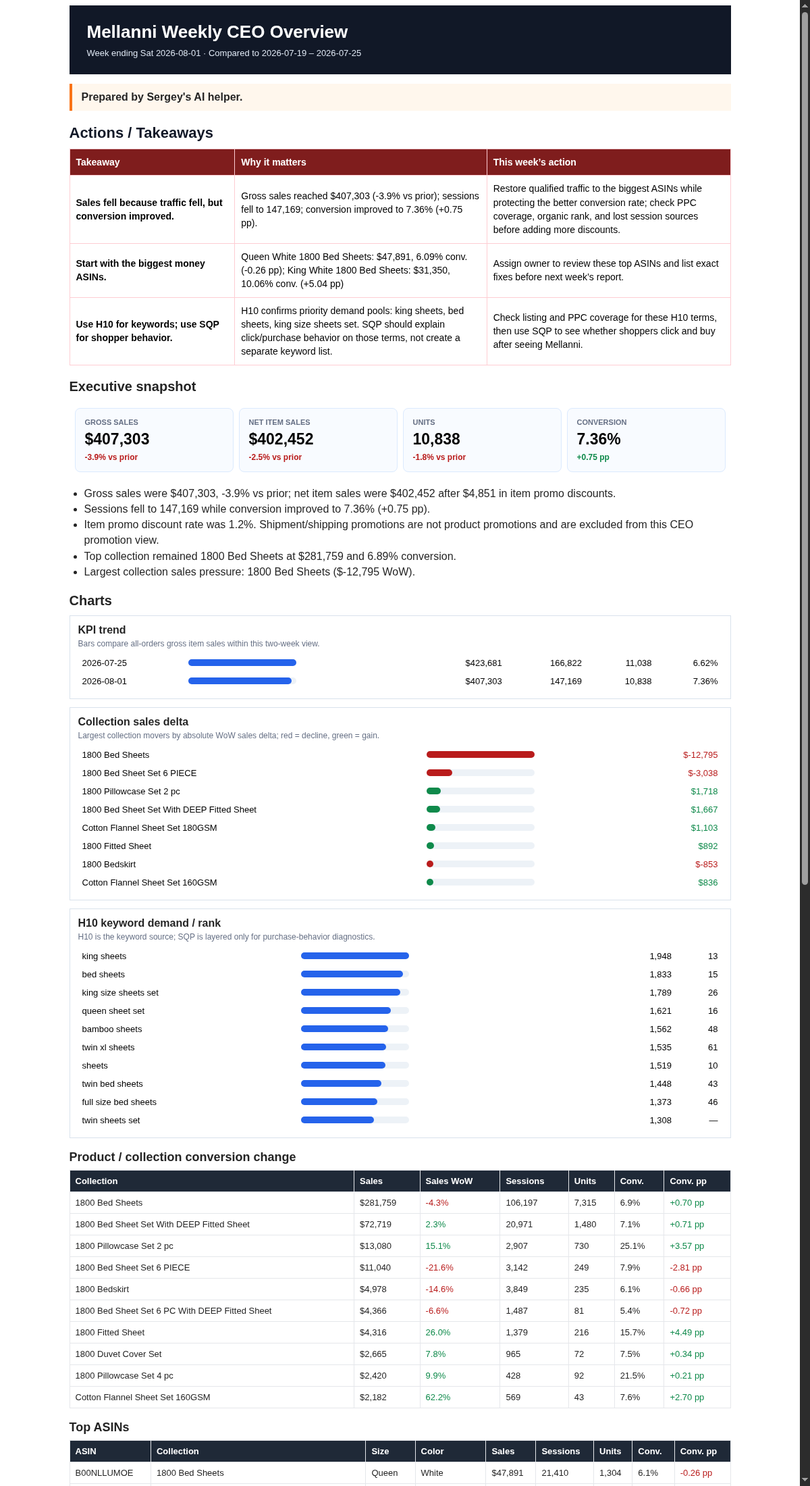
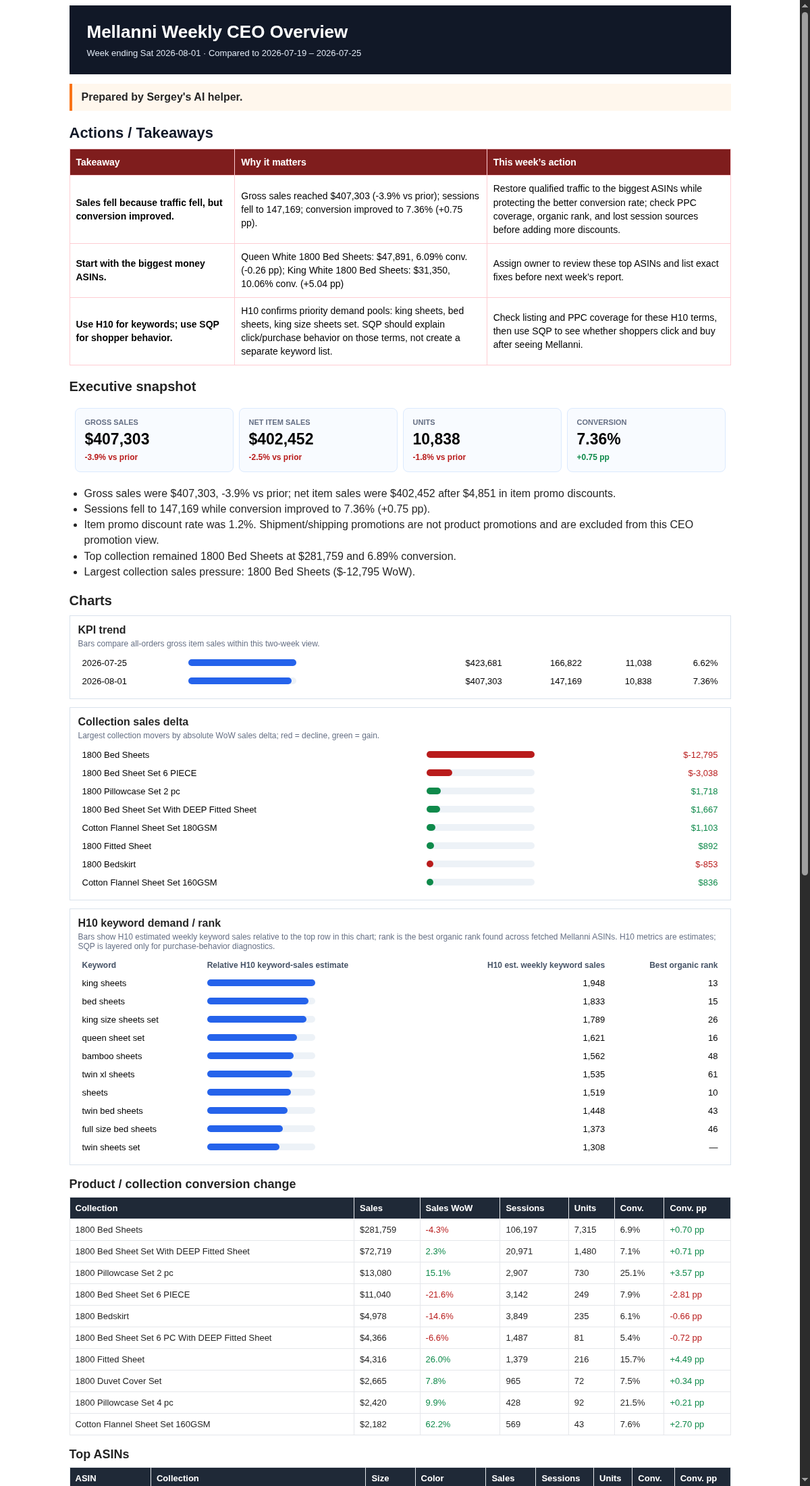
label h10 chart metrics

diff --git a/reports/weekly_conversion/2026-08-01/email_body_2026-08-01.html b/reports/weekly_conversion/2026-08-01/email_body_2026-08-01.html
@@ -20,7 +20,7 @@
   <h2 style="font-size:20px;margin:20px 0 10px">Charts</h2>
   <div style="border:1px solid #d9e2ec;padding:12px;margin:8px 0 12px"><b>KPI trend</b><div style="font-size:12px;color:#667085;margin:4px 0 8px">Bars compare all-orders gross item sales within this two-week view.</div><table style="width:100%;border-collapse:collapse;font-size:13px"><tr><td style='padding:6px'>2026-07-25</td><td style='padding:6px'><div style='background:#edf2f7;width:160px;height:10px;border-radius:6px'><div style='background:#2563eb;width:100.0%;height:10px;border-radius:6px'></div></div></td><td style='padding:6px;text-align:right'>$423,681</td><td style='padding:6px;text-align:right'>166,822</td><td style='padding:6px;text-align:right'>11,038</td><td style='padding:6px;text-align:right'>6.62%</td></tr><tr><td style='padding:6px'>2026-08-01</td><td style='padding:6px'><div style='background:#edf2f7;width:160px;height:10px;border-radius:6px'><div style='background:#2563eb;width:96.1%;height:10px;border-radius:6px'></div></div></td><td style='padding:6px;text-align:right'>$407,303</td><td style='padding:6px;text-align:right'>147,169</td><td style='padding:6px;text-align:right'>10,838</td><td style='padding:6px;text-align:right'>7.36%</td></tr></table></div>
   <div style="border:1px solid #d9e2ec;padding:12px;margin:8px 0 12px"><b>Collection sales delta</b><div style="font-size:12px;color:#667085;margin:4px 0 8px">Largest collection movers by absolute WoW sales delta; red = decline, green = gain.</div><table style="width:100%;border-collapse:collapse;font-size:13px"><tr><td style='padding:6px'>1800 Bed Sheets</td><td style='padding:6px'><div style='background:#edf2f7;width:160px;height:10px;border-radius:6px'><div style='background:#b91c1c;width:100.0%;height:10px;border-radius:6px'></div></div></td><td style='padding:6px;text-align:right;color:#b91c1c'>$-12,795</td></tr><tr><td style='padding:6px'>1800 Bed Sheet Set 6 PIECE</td><td style='padding:6px'><div style='background:#edf2f7;width:160px;height:10px;border-radius:6px'><div style='background:#b91c1c;width:23.7%;height:10px;border-radius:6px'></div></div></td><td style='padding:6px;text-align:right;color:#b91c1c'>$-3,038</td></tr><tr><td style='padding:6px'>1800 Pillowcase Set 2 pc</td><td style='padding:6px'><div style='background:#edf2f7;width:160px;height:10px;border-radius:6px'><div style='background:#0f8a4b;width:13.4%;height:10px;border-radius:6px'></div></div></td><td style='padding:6px;text-align:right;color:#0f8a4b'>$1,718</td></tr><tr><td style='padding:6px'>1800 Bed Sheet Set With DEEP Fitted Sheet</td><td style='padding:6px'><div style='background:#edf2f7;width:160px;height:10px;border-radius:6px'><div style='background:#0f8a4b;width:13.0%;height:10px;border-radius:6px'></div></div></td><td style='padding:6px;text-align:right;color:#0f8a4b'>$1,667</td></tr><tr><td style='padding:6px'>Cotton Flannel Sheet Set 180GSM</td><td style='padding:6px'><div style='background:#edf2f7;width:160px;height:10px;border-radius:6px'><div style='background:#0f8a4b;width:8.6%;height:10px;border-radius:6px'></div></div></td><td style='padding:6px;text-align:right;color:#0f8a4b'>$1,103</td></tr><tr><td style='padding:6px'>1800 Fitted Sheet</td><td style='padding:6px'><div style='background:#edf2f7;width:160px;height:10px;border-radius:6px'><div style='background:#0f8a4b;width:7.0%;height:10px;border-radius:6px'></div></div></td><td style='padding:6px;text-align:right;color:#0f8a4b'>$892</td></tr><tr><td style='padding:6px'>1800 Bedskirt</td><td style='padding:6px'><div style='background:#edf2f7;width:160px;height:10px;border-radius:6px'><div style='background:#b91c1c;width:6.7%;height:10px;border-radius:6px'></div></div></td><td style='padding:6px;text-align:right;color:#b91c1c'>$-853</td></tr><tr><td style='padding:6px'>Cotton Flannel Sheet Set 160GSM</td><td style='padding:6px'><div style='background:#edf2f7;width:160px;height:10px;border-radius:6px'><div style='background:#0f8a4b;width:6.5%;height:10px;border-radius:6px'></div></div></td><td style='padding:6px;text-align:right;color:#0f8a4b'>$836</td></tr></table></div>
-  <div style="border:1px solid #d9e2ec;padding:12px;margin:8px 0 12px"><b>H10 keyword demand / rank</b><div style="font-size:12px;color:#667085;margin:4px 0 8px">H10 is the keyword source; SQP is layered only for purchase-behavior diagnostics.</div><table style="width:100%;border-collapse:collapse;font-size:13px"><tr><td style='padding:6px'>king sheets</td><td style='padding:6px'><div style='background:#edf2f7;width:160px;height:10px;border-radius:6px'><div style='background:#2563eb;width:100.0%;height:10px;border-radius:6px'></div></div></td><td style='padding:6px;text-align:right'>1,948</td><td style='padding:6px;text-align:right'>13</td></tr><tr><td style='padding:6px'>bed sheets</td><td style='padding:6px'><div style='background:#edf2f7;width:160px;height:10px;border-radius:6px'><div style='background:#2563eb;width:94.1%;height:10px;border-radius:6px'></div></div></td><td style='padding:6px;text-align:right'>1,833</td><td style='padding:6px;text-align:right'>15</td></tr><tr><td style='padding:6px'>king size sheets set</td><td style='padding:6px'><div style='background:#edf2f7;width:160px;height:10px;border-radius:6px'><div style='background:#2563eb;width:91.8%;height:10px;border-radius:6px'></div></div></td><td style='padding:6px;text-align:right'>1,789</td><td style='padding:6px;text-align:right'>26</td></tr><tr><td style='padding:6px'>queen sheet set</td><td style='padding:6px'><div style='background:#edf2f7;width:160px;height:10px;border-radius:6px'><div style='background:#2563eb;width:83.2%;height:10px;border-radius:6px'></div></div></td><td style='padding:6px;text-align:right'>1,621</td><td style='padding:6px;text-align:right'>16</td></tr><tr><td style='padding:6px'>bamboo sheets</td><td style='padding:6px'><div style='background:#edf2f7;width:160px;height:10px;border-radius:6px'><div style='background:#2563eb;width:80.2%;height:10px;border-radius:6px'></div></div></td><td style='padding:6px;text-align:right'>1,562</td><td style='padding:6px;text-align:right'>48</td></tr><tr><td style='padding:6px'>twin xl sheets</td><td style='padding:6px'><div style='background:#edf2f7;width:160px;height:10px;border-radius:6px'><div style='background:#2563eb;width:78.8%;height:10px;border-radius:6px'></div></div></td><td style='padding:6px;text-align:right'>1,535</td><td style='padding:6px;text-align:right'>61</td></tr><tr><td style='padding:6px'>sheets</td><td style='padding:6px'><div style='background:#edf2f7;width:160px;height:10px;border-radius:6px'><div style='background:#2563eb;width:78.0%;height:10px;border-radius:6px'></div></div></td><td style='padding:6px;text-align:right'>1,519</td><td style='padding:6px;text-align:right'>10</td></tr><tr><td style='padding:6px'>twin bed sheets</td><td style='padding:6px'><div style='background:#edf2f7;width:160px;height:10px;border-radius:6px'><div style='background:#2563eb;width:74.3%;height:10px;border-radius:6px'></div></div></td><td style='padding:6px;text-align:right'>1,448</td><td style='padding:6px;text-align:right'>43</td></tr><tr><td style='padding:6px'>full size bed sheets</td><td style='padding:6px'><div style='background:#edf2f7;width:160px;height:10px;border-radius:6px'><div style='background:#2563eb;width:70.5%;height:10px;border-radius:6px'></div></div></td><td style='padding:6px;text-align:right'>1,373</td><td style='padding:6px;text-align:right'>46</td></tr><tr><td style='padding:6px'>twin sheets set</td><td style='padding:6px'><div style='background:#edf2f7;width:160px;height:10px;border-radius:6px'><div style='background:#2563eb;width:67.1%;height:10px;border-radius:6px'></div></div></td><td style='padding:6px;text-align:right'>1,308</td><td style='padding:6px;text-align:right'>—</td></tr></table></div>
+  <div style="border:1px solid #d9e2ec;padding:12px;margin:8px 0 12px"><b>H10 keyword demand / rank</b><div style="font-size:12px;color:#667085;margin:4px 0 8px">Bars show H10 estimated weekly keyword sales relative to the top row in this chart; rank is the best organic rank found across fetched Mellanni ASINs. H10 metrics are estimates; SQP is layered only for purchase-behavior diagnostics.</div><table style="width:100%;border-collapse:collapse;font-size:13px"><tr><th style='padding:6px;text-align:left;color:#475467;font-size:12px'>Keyword</th><th style='padding:6px;text-align:left;color:#475467;font-size:12px'>Relative H10 keyword-sales estimate</th><th style='padding:6px;text-align:right;color:#475467;font-size:12px'>H10 est. weekly keyword sales</th><th style='padding:6px;text-align:right;color:#475467;font-size:12px'>Best organic rank</th></tr><tr><td style='padding:6px'>king sheets</td><td style='padding:6px'><div style='background:#edf2f7;width:160px;height:10px;border-radius:6px'><div style='background:#2563eb;width:100.0%;height:10px;border-radius:6px'></div></div></td><td style='padding:6px;text-align:right'>1,948</td><td style='padding:6px;text-align:right'>13</td></tr><tr><td style='padding:6px'>bed sheets</td><td style='padding:6px'><div style='background:#edf2f7;width:160px;height:10px;border-radius:6px'><div style='background:#2563eb;width:94.1%;height:10px;border-radius:6px'></div></div></td><td style='padding:6px;text-align:right'>1,833</td><td style='padding:6px;text-align:right'>15</td></tr><tr><td style='padding:6px'>king size sheets set</td><td style='padding:6px'><div style='background:#edf2f7;width:160px;height:10px;border-radius:6px'><div style='background:#2563eb;width:91.8%;height:10px;border-radius:6px'></div></div></td><td style='padding:6px;text-align:right'>1,789</td><td style='padding:6px;text-align:right'>26</td></tr><tr><td style='padding:6px'>queen sheet set</td><td style='padding:6px'><div style='background:#edf2f7;width:160px;height:10px;border-radius:6px'><div style='background:#2563eb;width:83.2%;height:10px;border-radius:6px'></div></div></td><td style='padding:6px;text-align:right'>1,621</td><td style='padding:6px;text-align:right'>16</td></tr><tr><td style='padding:6px'>bamboo sheets</td><td style='padding:6px'><div style='background:#edf2f7;width:160px;height:10px;border-radius:6px'><div style='background:#2563eb;width:80.2%;height:10px;border-radius:6px'></div></div></td><td style='padding:6px;text-align:right'>1,562</td><td style='padding:6px;text-align:right'>48</td></tr><tr><td style='padding:6px'>twin xl sheets</td><td style='padding:6px'><div style='background:#edf2f7;width:160px;height:10px;border-radius:6px'><div style='background:#2563eb;width:78.8%;height:10px;border-radius:6px'></div></div></td><td style='padding:6px;text-align:right'>1,535</td><td style='padding:6px;text-align:right'>61</td></tr><tr><td style='padding:6px'>sheets</td><td style='padding:6px'><div style='background:#edf2f7;width:160px;height:10px;border-radius:6px'><div style='background:#2563eb;width:78.0%;height:10px;border-radius:6px'></div></div></td><td style='padding:6px;text-align:right'>1,519</td><td style='padding:6px;text-align:right'>10</td></tr><tr><td style='padding:6px'>twin bed sheets</td><td style='padding:6px'><div style='background:#edf2f7;width:160px;height:10px;border-radius:6px'><div style='background:#2563eb;width:74.3%;height:10px;border-radius:6px'></div></div></td><td style='padding:6px;text-align:right'>1,448</td><td style='padding:6px;text-align:right'>43</td></tr><tr><td style='padding:6px'>full size bed sheets</td><td style='padding:6px'><div style='background:#edf2f7;width:160px;height:10px;border-radius:6px'><div style='background:#2563eb;width:70.5%;height:10px;border-radius:6px'></div></div></td><td style='padding:6px;text-align:right'>1,373</td><td style='padding:6px;text-align:right'>46</td></tr><tr><td style='padding:6px'>twin sheets set</td><td style='padding:6px'><div style='background:#edf2f7;width:160px;height:10px;border-radius:6px'><div style='background:#2563eb;width:67.1%;height:10px;border-radius:6px'></div></div></td><td style='padding:6px;text-align:right'>1,308</td><td style='padding:6px;text-align:right'>—</td></tr></table></div>
 
   <h2 style="font-size:18px;margin:18px 0 8px">Product / collection conversion change</h2><table style='border-collapse:collapse;width:100%;font-size:13px;margin:8px 0 16px'><tr><th style='background:#1f2937;color:#fff;text-align:left;padding:8px;border:1px solid #e5e7eb'>Collection</th><th style='background:#1f2937;color:#fff;text-align:left;padding:8px;border:1px solid #e5e7eb'>Sales</th><th style='background:#1f2937;color:#fff;text-align:left;padding:8px;border:1px solid #e5e7eb'>Sales WoW</th><th style='background:#1f2937;color:#fff;text-align:left;padding:8px;border:1px solid #e5e7eb'>Sessions</th><th style='background:#1f2937;color:#fff;text-align:left;padding:8px;border:1px solid #e5e7eb'>Units</th><th style='background:#1f2937;color:#fff;text-align:left;padding:8px;border:1px solid #e5e7eb'>Conv.</th><th style='background:#1f2937;color:#fff;text-align:left;padding:8px;border:1px solid #e5e7eb'>Conv. pp</th></tr><tr><td style='padding:8px;border:1px solid #e5e7eb;color:#242424'>1800 Bed Sheets</td><td style='padding:8px;border:1px solid #e5e7eb;color:#242424'>$281,759</td><td style='padding:8px;border:1px solid #e5e7eb;color:#b91c1c'>-4.3%</td><td style='padding:8px;border:1px solid #e5e7eb;color:#242424'>106,197</td><td style='padding:8px;border:1px solid #e5e7eb;color:#242424'>7,315</td><td style='padding:8px;border:1px solid #e5e7eb;color:#242424'>6.9%</td><td style='padding:8px;border:1px solid #e5e7eb;color:#0f8a4b'>+0.70 pp</td></tr><tr><td style='padding:8px;border:1px solid #e5e7eb;color:#242424'>1800 Bed Sheet Set With DEEP Fitted Sheet</td><td style='padding:8px;border:1px solid #e5e7eb;color:#242424'>$72,719</td><td style='padding:8px;border:1px solid #e5e7eb;color:#0f8a4b'>2.3%</td><td style='padding:8px;border:1px solid #e5e7eb;color:#242424'>20,971</td><td style='padding:8px;border:1px solid #e5e7eb;color:#242424'>1,480</td><td style='padding:8px;border:1px solid #e5e7eb;color:#242424'>7.1%</td><td style='padding:8px;border:1px solid #e5e7eb;color:#0f8a4b'>+0.71 pp</td></tr><tr><td style='padding:8px;border:1px solid #e5e7eb;color:#242424'>1800 Pillowcase Set 2 pc</td><td style='padding:8px;border:1px solid #e5e7eb;color:#242424'>$13,080</td><td style='padding:8px;border:1px solid #e5e7eb;color:#0f8a4b'>15.1%</td><td style='padding:8px;border:1px solid #e5e7eb;color:#242424'>2,907</td><td style='padding:8px;border:1px solid #e5e7eb;color:#242424'>730</td><td style='padding:8px;border:1px solid #e5e7eb;color:#242424'>25.1%</td><td style='padding:8px;border:1px solid #e5e7eb;color:#0f8a4b'>+3.57 pp</td></tr><tr><td style='padding:8px;border:1px solid #e5e7eb;color:#242424'>1800 Bed Sheet Set 6 PIECE</td><td style='padding:8px;border:1px solid #e5e7eb;color:#242424'>$11,040</td><td style='padding:8px;border:1px solid #e5e7eb;color:#b91c1c'>-21.6%</td><td style='padding:8px;border:1px solid #e5e7eb;color:#242424'>3,142</td><td style='padding:8px;border:1px solid #e5e7eb;color:#242424'>249</td><td style='padding:8px;border:1px solid #e5e7eb;color:#242424'>7.9%</td><td style='padding:8px;border:1px solid #e5e7eb;color:#b91c1c'>-2.81 pp</td></tr><tr><td style='padding:8px;border:1px solid #e5e7eb;color:#242424'>1800 Bedskirt</td><td style='padding:8px;border:1px solid #e5e7eb;color:#242424'>$4,978</td><td style='padding:8px;border:1px solid #e5e7eb;color:#b91c1c'>-14.6%</td><td style='padding:8px;border:1px solid #e5e7eb;color:#242424'>3,849</td><td style='padding:8px;border:1px solid #e5e7eb;color:#242424'>235</td><td style='padding:8px;border:1px solid #e5e7eb;color:#242424'>6.1%</td><td style='padding:8px;border:1px solid #e5e7eb;color:#b91c1c'>-0.66 pp</td></tr><tr><td style='padding:8px;border:1px solid #e5e7eb;color:#242424'>1800 Bed Sheet Set 6 PC With DEEP Fitted Sheet</td><td style='padding:8px;border:1px solid #e5e7eb;color:#242424'>$4,366</td><td style='padding:8px;border:1px solid #e5e7eb;color:#b91c1c'>-6.6%</td><td style='padding:8px;border:1px solid #e5e7eb;color:#242424'>1,487</td><td style='padding:8px;border:1px solid #e5e7eb;color:#242424'>81</td><td style='padding:8px;border:1px solid #e5e7eb;color:#242424'>5.4%</td><td style='padding:8px;border:1px solid #e5e7eb;color:#b91c1c'>-0.72 pp</td></tr><tr><td style='padding:8px;border:1px solid #e5e7eb;color:#242424'>1800 Fitted Sheet</td><td style='padding:8px;border:1px solid #e5e7eb;color:#242424'>$4,316</td><td style='padding:8px;border:1px solid #e5e7eb;color:#0f8a4b'>26.0%</td><td style='padding:8px;border:1px solid #e5e7eb;color:#242424'>1,379</td><td style='padding:8px;border:1px solid #e5e7eb;color:#242424'>216</td><td style='padding:8px;border:1px solid #e5e7eb;color:#242424'>15.7%</td><td style='padding:8px;border:1px solid #e5e7eb;color:#0f8a4b'>+4.49 pp</td></tr><tr><td style='padding:8px;border:1px solid #e5e7eb;color:#242424'>1800 Duvet Cover Set</td><td style='padding:8px;border:1px solid #e5e7eb;color:#242424'>$2,665</td><td style='padding:8px;border:1px solid #e5e7eb;color:#0f8a4b'>7.8%</td><td style='padding:8px;border:1px solid #e5e7eb;color:#242424'>965</td><td style='padding:8px;border:1px solid #e5e7eb;color:#242424'>72</td><td style='padding:8px;border:1px solid #e5e7eb;color:#242424'>7.5%</td><td style='padding:8px;border:1px solid #e5e7eb;color:#0f8a4b'>+0.34 pp</td></tr><tr><td style='padding:8px;border:1px solid #e5e7eb;color:#242424'>1800 Pillowcase Set 4 pc</td><td style='padding:8px;border:1px solid #e5e7eb;color:#242424'>$2,420</td><td style='padding:8px;border:1px solid #e5e7eb;color:#0f8a4b'>9.9%</td><td style='padding:8px;border:1px solid #e5e7eb;color:#242424'>428</td><td style='padding:8px;border:1px solid #e5e7eb;color:#242424'>92</td><td style='padding:8px;border:1px solid #e5e7eb;color:#242424'>21.5%</td><td style='padding:8px;border:1px solid #e5e7eb;color:#0f8a4b'>+0.21 pp</td></tr><tr><td style='padding:8px;border:1px solid #e5e7eb;color:#242424'>Cotton Flannel Sheet Set 160GSM</td><td style='padding:8px;border:1px solid #e5e7eb;color:#242424'>$2,182</td><td style='padding:8px;border:1px solid #e5e7eb;color:#0f8a4b'>62.2%</td><td style='padding:8px;border:1px solid #e5e7eb;color:#242424'>569</td><td style='padding:8px;border:1px solid #e5e7eb;color:#242424'>43</td><td style='padding:8px;border:1px solid #e5e7eb;color:#242424'>7.6%</td><td style='padding:8px;border:1px solid #e5e7eb;color:#0f8a4b'>+2.70 pp</td></tr></table>
   <h2 style="font-size:18px;margin:18px 0 8px">Top ASINs</h2><table style='border-collapse:collapse;width:100%;font-size:13px;margin:8px 0 16px'><tr><th style='background:#1f2937;color:#fff;text-align:left;padding:8px;border:1px solid #e5e7eb'>ASIN</th><th style='background:#1f2937;color:#fff;text-align:left;padding:8px;border:1px solid #e5e7eb'>Collection</th><th style='background:#1f2937;color:#fff;text-align:left;padding:8px;border:1px solid #e5e7eb'>Size</th><th style='background:#1f2937;color:#fff;text-align:left;padding:8px;border:1px solid #e5e7eb'>Color</th><th style='background:#1f2937;color:#fff;text-align:left;padding:8px;border:1px solid #e5e7eb'>Sales</th><th style='background:#1f2937;color:#fff;text-align:left;padding:8px;border:1px solid #e5e7eb'>Sessions</th><th style='background:#1f2937;color:#fff;text-align:left;padding:8px;border:1px solid #e5e7eb'>Units</th><th style='background:#1f2937;color:#fff;text-align:left;padding:8px;border:1px solid #e5e7eb'>Conv.</th><th style='background:#1f2937;color:#fff;text-align:left;padding:8px;border:1px solid #e5e7eb'>Conv. pp</th></tr><tr><td style='padding:8px;border:1px solid #e5e7eb;color:#242424'>B00NLLUMOE</td><td style='padding:8px;border:1px solid #e5e7eb;color:#242424'>1800 Bed Sheets</td><td style='padding:8px;border:1px solid #e5e7eb;color:#242424'>Queen</td><td style='padding:8px;border:1px solid #e5e7eb;color:#242424'>White</td><td style='padding:8px;border:1px solid #e5e7eb;color:#242424'>$47,891</td><td style='padding:8px;border:1px solid #e5e7eb;color:#242424'>21,410</td><td style='padding:8px;border:1px solid #e5e7eb;color:#242424'>1,304</td><td style='padding:8px;border:1px solid #e5e7eb;color:#242424'>6.1%</td><td style='padding:8px;border:1px solid #e5e7eb;color:#b91c1c'>-0.26 pp</td></tr><tr><td style='padding:8px;border:1px solid #e5e7eb;color:#242424'>B00NQDGAP2</td><td style='padding:8px;border:1px solid #e5e7eb;color:#242424'>1800 Bed Sheets</td><td style='padding:8px;border:1px solid #e5e7eb;color:#242424'>King</td><td style='padding:8px;border:1px solid #e5e7eb;color:#242424'>White</td><td style='padding:8px;border:1px solid #e5e7eb;color:#242424'>$31,350</td><td style='padding:8px;border:1px solid #e5e7eb;color:#242424'>7,685</td><td style='padding:8px;border:1px solid #e5e7eb;color:#242424'>773</td><td style='padding:8px;border:1px solid #e5e7eb;color:#242424'>10.1%</td><td style='padding:8px;border:1px solid #e5e7eb;color:#0f8a4b'>+5.04 pp</td></tr><tr><td style='padding:8px;border:1px solid #e5e7eb;color:#242424'>B00O35DAL4</td><td style='padding:8px;border:1px solid #e5e7eb;color:#242424'>1800 Bed Sheets</td><td style='padding:8px;border:1px solid #e5e7eb;color:#242424'>Full</td><td style='padding:8px;border:1px solid #e5e7eb;color:#242424'>White</td><td style='padding:8px;border:1px solid #e5e7eb;color:#242424'>$16,473</td><td style='padding:8px;border:1px solid #e5e7eb;color:#242424'>3,023</td><td style='padding:8px;border:1px solid #e5e7eb;color:#242424'>475</td><td style='padding:8px;border:1px solid #e5e7eb;color:#242424'>15.7%</td><td style='padding:8px;border:1px solid #e5e7eb;color:#b91c1c'>-0.13 pp</td></tr><tr><td style='padding:8px;border:1px solid #e5e7eb;color:#242424'>B0822X1VP7</td><td style='padding:8px;border:1px solid #e5e7eb;color:#242424'>1800 Bed Sheet Set With DEEP Fitted Sheet</td><td style='padding:8px;border:1px solid #e5e7eb;color:#242424'>King</td><td style='padding:8px;border:1px solid #e5e7eb;color:#242424'>White</td><td style='padding:8px;border:1px solid #e5e7eb;color:#242424'>$11,456</td><td style='padding:8px;border:1px solid #e5e7eb;color:#242424'>2,195</td><td style='padding:8px;border:1px solid #e5e7eb;color:#242424'>226</td><td style='padding:8px;border:1px solid #e5e7eb;color:#242424'>10.3%</td><td style='padding:8px;border:1px solid #e5e7eb;color:#0f8a4b'>+2.06 pp</td></tr><tr><td style='padding:8px;border:1px solid #e5e7eb;color:#242424'>B016P42ARU</td><td style='padding:8px;border:1px solid #e5e7eb;color:#242424'>1800 Bed Sheets</td><td style='padding:8px;border:1px solid #e5e7eb;color:#242424'>Twin XL</td><td style='padding:8px;border:1px solid #e5e7eb;color:#242424'>White</td><td style='padding:8px;border:1px solid #e5e7eb;color:#242424'>$9,777</td><td style='padding:8px;border:1px solid #e5e7eb;color:#242424'>1,527</td><td style='padding:8px;border:1px solid #e5e7eb;color:#242424'>299</td><td style='padding:8px;border:1px solid #e5e7eb;color:#242424'>19.6%</td><td style='padding:8px;border:1px solid #e5e7eb;color:#0f8a4b'>+2.94 pp</td></tr><tr><td style='padding:8px;border:1px solid #e5e7eb;color:#242424'>B0822X4TLW</td><td style='padding:8px;border:1px solid #e5e7eb;color:#242424'>1800 Bed Sheet Set With DEEP Fitted Sheet</td><td style='padding:8px;border:1px solid #e5e7eb;color:#242424'>Queen</td><td style='padding:8px;border:1px solid #e5e7eb;color:#242424'>White</td><td style='padding:8px;border:1px solid #e5e7eb;color:#242424'>$9,157</td><td style='padding:8px;border:1px solid #e5e7eb;color:#242424'>2,098</td><td style='padding:8px;border:1px solid #e5e7eb;color:#242424'>198</td><td style='padding:8px;border:1px solid #e5e7eb;color:#242424'>9.4%</td><td style='padding:8px;border:1px solid #e5e7eb;color:#0f8a4b'>+3.29 pp</td></tr><tr><td style='padding:8px;border:1px solid #e5e7eb;color:#242424'>B00O35CWQ8</td><td style='padding:8px;border:1px solid #e5e7eb;color:#242424'>1800 Bed Sheets</td><td style='padding:8px;border:1px solid #e5e7eb;color:#242424'>Twin</td><td style='padding:8px;border:1px solid #e5e7eb;color:#242424'>White</td><td style='padding:8px;border:1px solid #e5e7eb;color:#242424'>$7,258</td><td style='padding:8px;border:1px solid #e5e7eb;color:#242424'>738</td><td style='padding:8px;border:1px solid #e5e7eb;color:#242424'>209</td><td style='padding:8px;border:1px solid #e5e7eb;color:#242424'>28.3%</td><td style='padding:8px;border:1px solid #e5e7eb;color:#0f8a4b'>+9.76 pp</td></tr><tr><td style='padding:8px;border:1px solid #e5e7eb;color:#242424'>B00SBZJ8NG</td><td style='padding:8px;border:1px solid #e5e7eb;color:#242424'>1800 Bed Sheets</td><td style='padding:8px;border:1px solid #e5e7eb;color:#242424'>Queen</td><td style='padding:8px;border:1px solid #e5e7eb;color:#242424'>Light Gray</td><td style='padding:8px;border:1px solid #e5e7eb;color:#242424'>$6,429</td><td style='padding:8px;border:1px solid #e5e7eb;color:#242424'>2,038</td><td style='padding:8px;border:1px solid #e5e7eb;color:#242424'>161</td><td style='padding:8px;border:1px solid #e5e7eb;color:#242424'>7.9%</td><td style='padding:8px;border:1px solid #e5e7eb;color:#0f8a4b'>+0.85 pp</td></tr><tr><td style='padding:8px;border:1px solid #e5e7eb;color:#242424'>B0CLYC7B2G</td><td style='padding:8px;border:1px solid #e5e7eb;color:#242424'>1800 Bed Sheets</td><td style='padding:8px;border:1px solid #e5e7eb;color:#242424'>Queen</td><td style='padding:8px;border:1px solid #e5e7eb;color:#242424'>Ivory</td><td style='padding:8px;border:1px solid #e5e7eb;color:#242424'>$4,954</td><td style='padding:8px;border:1px solid #e5e7eb;color:#242424'>2,124</td><td style='padding:8px;border:1px solid #e5e7eb;color:#242424'>124</td><td style='padding:8px;border:1px solid #e5e7eb;color:#242424'>5.8%</td><td style='padding:8px;border:1px solid #e5e7eb;color:#0f8a4b'>+0.87 pp</td></tr><tr><td style='padding:8px;border:1px solid #e5e7eb;color:#242424'>B08RZDBZZJ</td><td style='padding:8px;border:1px solid #e5e7eb;color:#242424'>1800 Bed Sheets</td><td style='padding:8px;border:1px solid #e5e7eb;color:#242424'>Queen</td><td style='padding:8px;border:1px solid #e5e7eb;color:#242424'>Golden Ivory</td><td style='padding:8px;border:1px solid #e5e7eb;color:#242424'>$4,953</td><td style='padding:8px;border:1px solid #e5e7eb;color:#242424'>1,951</td><td style='padding:8px;border:1px solid #e5e7eb;color:#242424'>124</td><td style='padding:8px;border:1px solid #e5e7eb;color:#242424'>6.4%</td><td style='padding:8px;border:1px solid #e5e7eb;color:#0f8a4b'>+1.26 pp</td></tr><tr><td style='padding:8px;border:1px solid #e5e7eb;color:#242424'>B0CLYDPTWV</td><td style='padding:8px;border:1px solid #e5e7eb;color:#242424'>1800 Bed Sheets</td><td style='padding:8px;border:1px solid #e5e7eb;color:#242424'>King</td><td style='padding:8px;border:1px solid #e5e7eb;color:#242424'>Ivory</td><td style='padding:8px;border:1px solid #e5e7eb;color:#242424'>$3,953</td><td style='padding:8px;border:1px solid #e5e7eb;color:#242424'>1,502</td><td style='padding:8px;border:1px solid #e5e7eb;color:#242424'>93</td><td style='padding:8px;border:1px solid #e5e7eb;color:#242424'>6.2%</td><td style='padding:8px;border:1px solid #e5e7eb;color:#0f8a4b'>+1.72 pp</td></tr><tr><td style='padding:8px;border:1px solid #e5e7eb;color:#242424'>B00NLLUNSE</td><td style='padding:8px;border:1px solid #e5e7eb;color:#242424'>1800 Bed Sheets</td><td style='padding:8px;border:1px solid #e5e7eb;color:#242424'>Queen</td><td style='padding:8px;border:1px solid #e5e7eb;color:#242424'>Beige</td><td style='padding:8px;border:1px solid #e5e7eb;color:#242424'>$3,634</td><td style='padding:8px;border:1px solid #e5e7eb;color:#242424'>1,115</td><td style='padding:8px;border:1px solid #e5e7eb;color:#242424'>91</td><td style='padding:8px;border:1px solid #e5e7eb;color:#242424'>8.2%</td><td style='padding:8px;border:1px solid #e5e7eb;color:#0f8a4b'>+4.13 pp</td></tr></table>

diff --git a/scripts/build_weekly_ceo_report.py b/scripts/build_weekly_ceo_report.py
@@ -510,7 +510,15 @@ def render_html(context: dict[str, Any]) -> str:
     )
     kw_move = context["keywords"].copy().head(10)
     max_kw_sales = kw_move["keyword_sales"].max() if len(kw_move) and "keyword_sales" in kw_move else 0
-    keyword_rows = "".join(
+    keyword_header = (
+        "<tr>"
+        "<th style='padding:6px;text-align:left;color:#475467;font-size:12px'>Keyword</th>"
+        "<th style='padding:6px;text-align:left;color:#475467;font-size:12px'>Relative H10 keyword-sales estimate</th>"
+        "<th style='padding:6px;text-align:right;color:#475467;font-size:12px'>H10 est. weekly keyword sales</th>"
+        "<th style='padding:6px;text-align:right;color:#475467;font-size:12px'>Best organic rank</th>"
+        "</tr>"
+    )
+    keyword_rows = keyword_header + "".join(
         f"<tr><td style='padding:6px'>{escape(str(r.keyword))}</td><td style='padding:6px'>{html_bar(getattr(r, 'keyword_sales', 0), max_kw_sales, '#2563eb')}</td><td style='padding:6px;text-align:right'>{fmt_int(getattr(r, 'keyword_sales', 0))}</td><td style='padding:6px;text-align:right'>{fmt_int(getattr(r, 'organic_rank', 0))}</td></tr>"
         for r in kw_move.itertuples(index=False)
     )
@@ -544,7 +552,7 @@ def render_html(context: dict[str, Any]) -> str:
   <h2 style="font-size:20px;margin:20px 0 10px">Charts</h2>
   <div style="border:1px solid #d9e2ec;padding:12px;margin:8px 0 12px"><b>KPI trend</b><div style="font-size:12px;color:#667085;margin:4px 0 8px">Bars compare all-orders gross item sales within this two-week view.</div><table style="width:100%;border-collapse:collapse;font-size:13px">{trend_rows}</table></div>
   <div style="border:1px solid #d9e2ec;padding:12px;margin:8px 0 12px"><b>Collection sales delta</b><div style="font-size:12px;color:#667085;margin:4px 0 8px">Largest collection movers by absolute WoW sales delta; red = decline, green = gain.</div><table style="width:100%;border-collapse:collapse;font-size:13px">{product_rows}</table></div>
-  <div style="border:1px solid #d9e2ec;padding:12px;margin:8px 0 12px"><b>H10 keyword demand / rank</b><div style="font-size:12px;color:#667085;margin:4px 0 8px">H10 is the keyword source; SQP is layered only for purchase-behavior diagnostics.</div><table style="width:100%;border-collapse:collapse;font-size:13px">{keyword_rows}</table></div>
+  <div style="border:1px solid #d9e2ec;padding:12px;margin:8px 0 12px"><b>H10 keyword demand / rank</b><div style="font-size:12px;color:#667085;margin:4px 0 8px">Bars show H10 estimated weekly keyword sales relative to the top row in this chart; rank is the best organic rank found across fetched Mellanni ASINs. H10 metrics are estimates; SQP is layered only for purchase-behavior diagnostics.</div><table style="width:100%;border-collapse:collapse;font-size:13px">{keyword_rows}</table></div>
 
   <h2 style="font-size:18px;margin:18px 0 8px">Product / collection conversion change</h2>{product_table}
   <h2 style="font-size:18px;margin:18px 0 8px">Top ASINs</h2>{asin_table}
